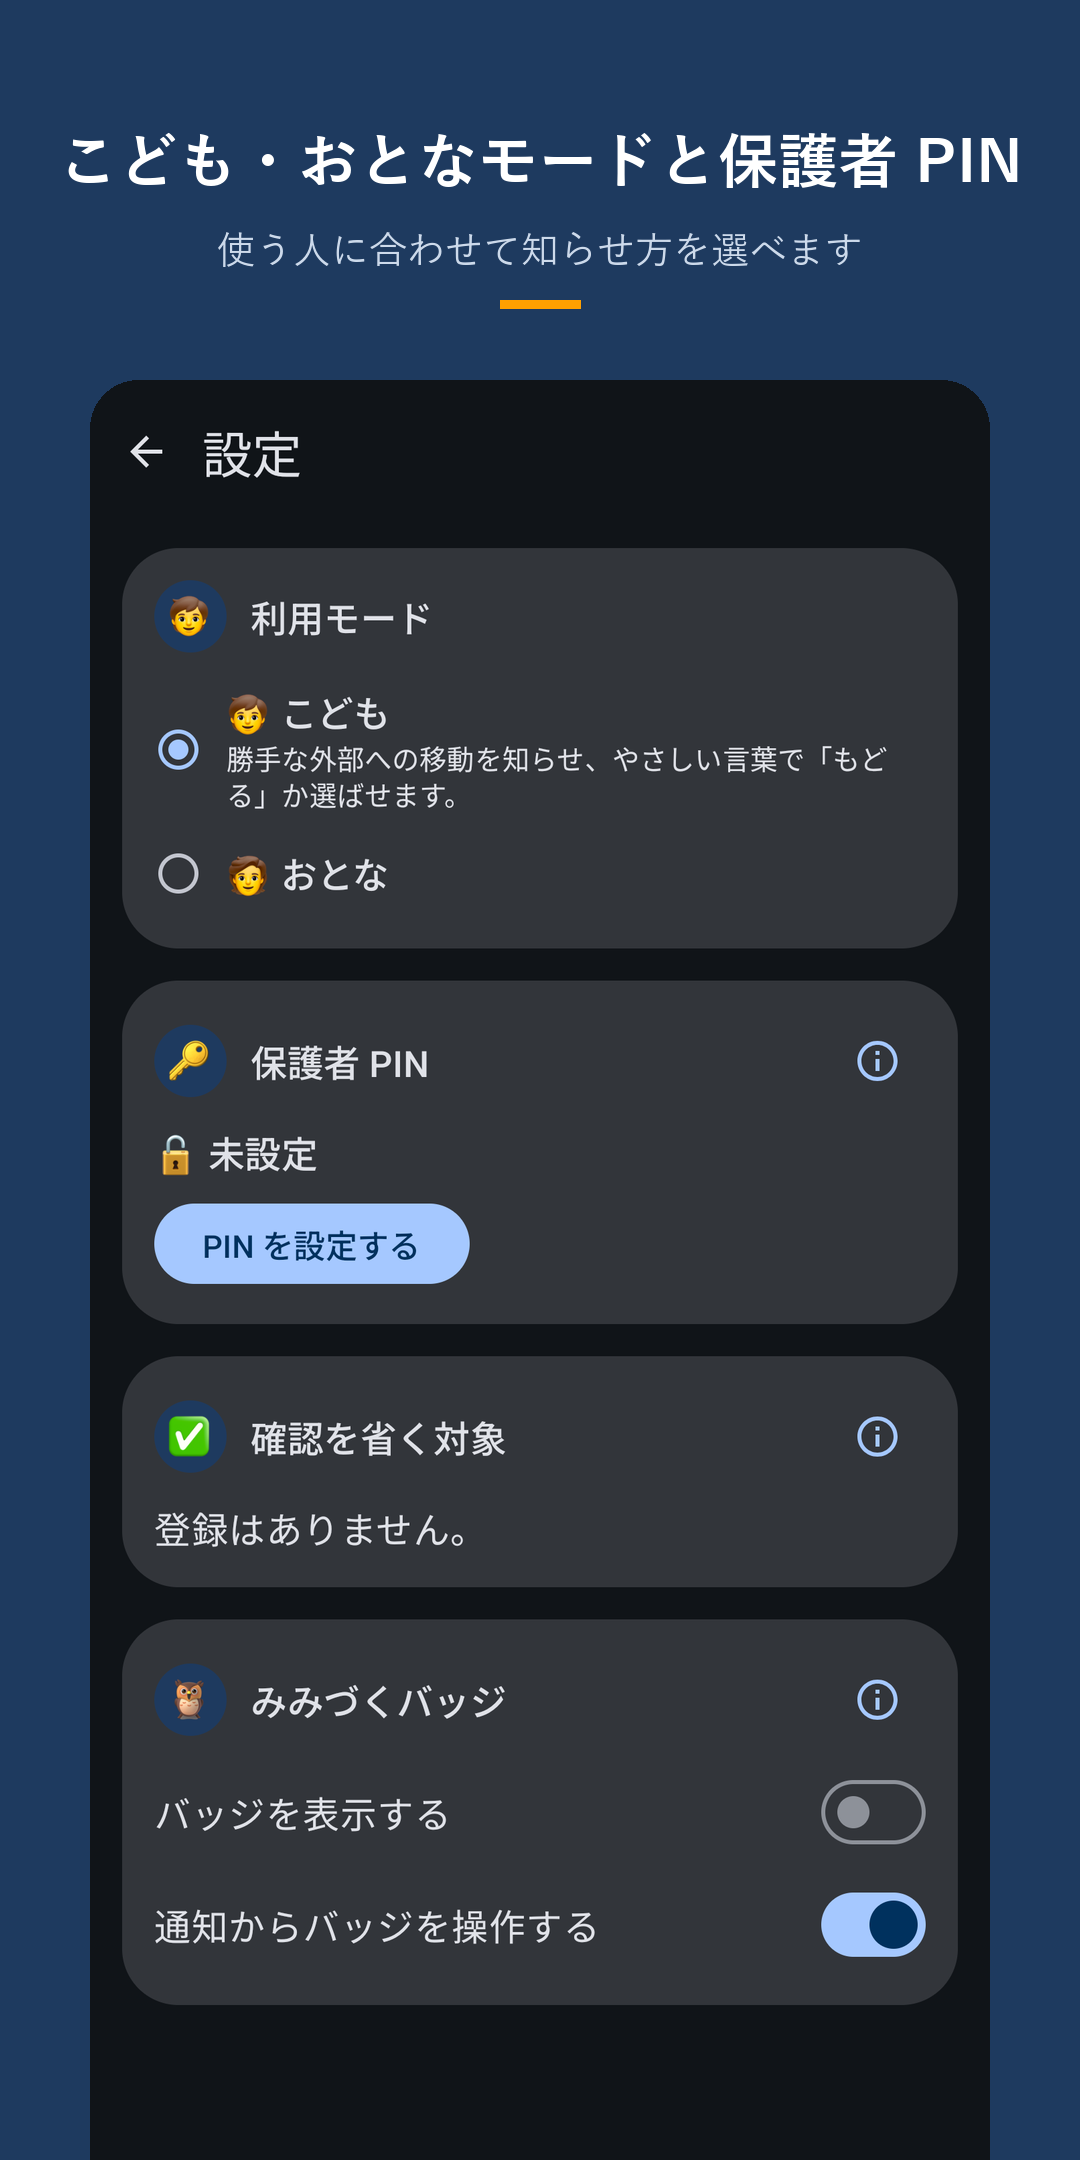
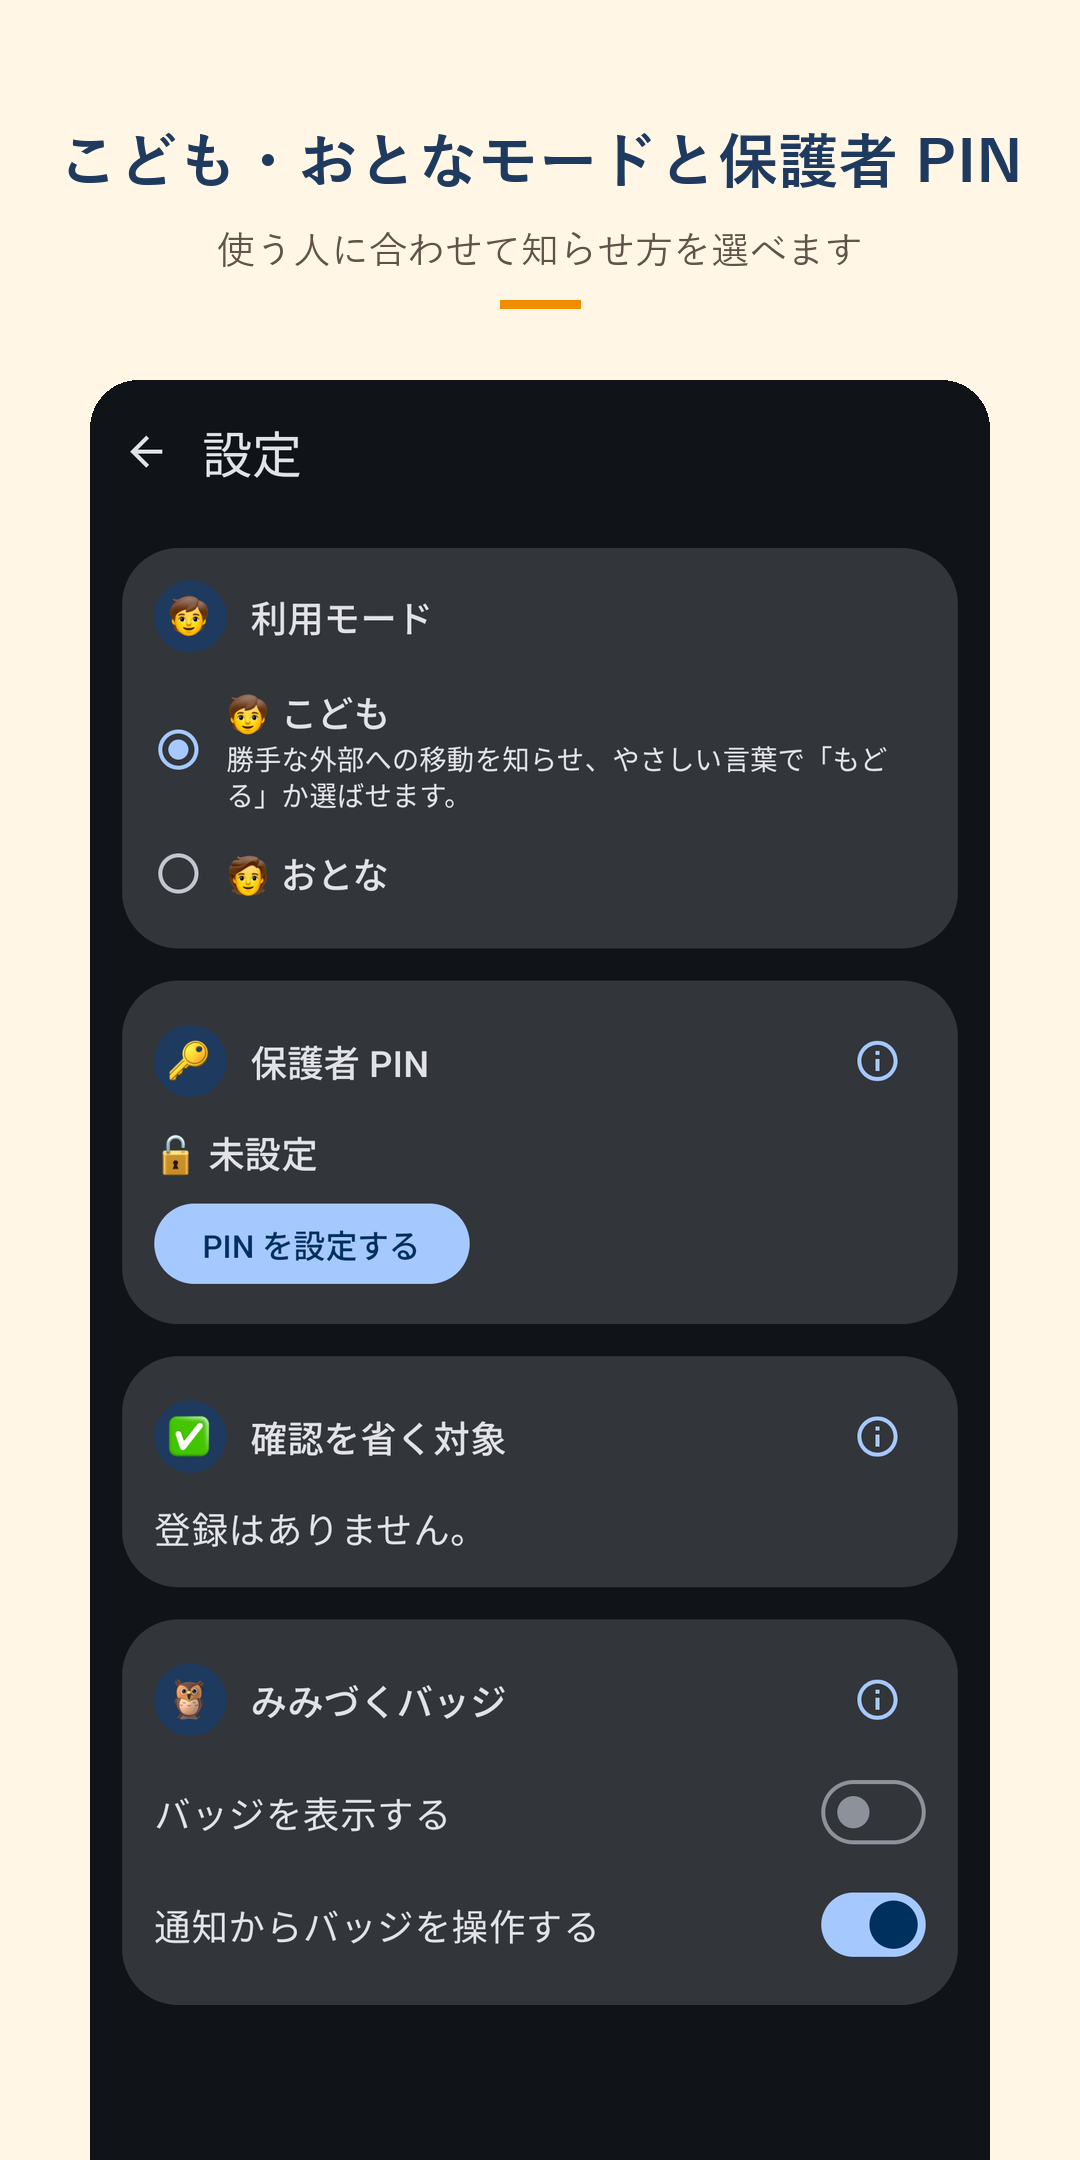
fix: 🎨 Play 用スクリーンショットの説明文の背景を警告バナーと被らない色へ変更
説明文の背景が警告バナーと同じ紺色で埋もれていたため、クリーム色の
背景と紺の文字にして5枚を作り直した。Kotlin の変更は無い。関連: BL-100

Claude-Session: https://claude.ai/code/session_01WnqNba8ncd3uPuy1Fb9rvR

diff --git a/scripts/make-store-screenshots.py b/scripts/make-store-screenshots.py
@@ -35,10 +35,11 @@ SITE_DIR = ROOT / "site" / "assets" / "screenshots"
 CROP_TOP = 140
 CROP_BOTTOM = 2900
 
-NAVY = (30, 58, 95)
-AMBER = (255, 160, 0)
-WHITE = (255, 255, 255)
-SUB = (205, 218, 235)
+# 説明文の背景。アプリの警告バナーが紺色（#1E3A5F 付近）なので、紺とは別の明るいクリーム色にして埋もれないようにする
+BG = (255, 246, 229)
+NAVY = (30, 58, 95)  # 見出しの文字
+AMBER = (240, 140, 0)
+SUB = (96, 82, 72)  # 補足の文字
 
 CANVAS = (1080, 2160)
 SHOT_WIDTH = 900
@@ -99,7 +100,7 @@ def centered(draw: ImageDraw.ImageDraw, text: str, font: ImageFont.FreeTypeFont,
 
 
 def make_play(shot: Image.Image, title: str, sub: str) -> Image.Image:
-    canvas = Image.new("RGB", CANVAS, NAVY)
+    canvas = Image.new("RGB", CANVAS, BG)
     draw = ImageDraw.Draw(canvas)
     draw.rectangle((CANVAS[0] // 2 - 40, 300, CANVAS[0] // 2 + 40, 308), fill=AMBER)
     title_font = load_font(FONT_CANDIDATES_BOLD, 70)
@@ -108,7 +109,7 @@ def make_play(shot: Image.Image, title: str, sub: str) -> Image.Image:
     while draw.textlength(title, font=title_font) > CANVAS[0] - 100 and size > 40:
         size -= 2
         title_font = load_font(FONT_CANDIDATES_BOLD, size)
-    centered(draw, title, title_font, 130, WHITE)
+    centered(draw, title, title_font, 130, NAVY)
     centered(draw, sub, load_font(FONT_CANDIDATES_REG, 38), 230, SUB)
     height = round(shot.height * SHOT_WIDTH / shot.width)
     scaled = rounded_top(shot.resize((SHOT_WIDTH, height), Image.LANCZOS), 48)

diff --git a/CHANGELOG.md b/CHANGELOG.md
@@ -4,6 +4,10 @@
 
 ## Unreleased
 
+- Play 用スクリーンショットの説明文の背景を、紺色からクリーム色へ変えた（紺の文字）。アプリの警告バナーの紺と同じ色で
+  埋もれて見えたため。`scripts/make-store-screenshots.py` の色の定義だけを変え、`docs/images/play/screenshots/` の5枚を作り直した。
+  Kotlin の変更は無い
+
 - Play 用のスクリーンショットを `docs/images/play/screenshots/` へ移し、掲載順の番号をつけた名前に変えた
   （`01-home`・`02-warn`・`03-external`・`04-log`・`05-settings`）。`scripts/make-store-screenshots.py` の出力先と名前も合わせた。
   アイコンとフィーチャー グラフィックは `docs/images/play/` のまま。Kotlin の変更は無い
